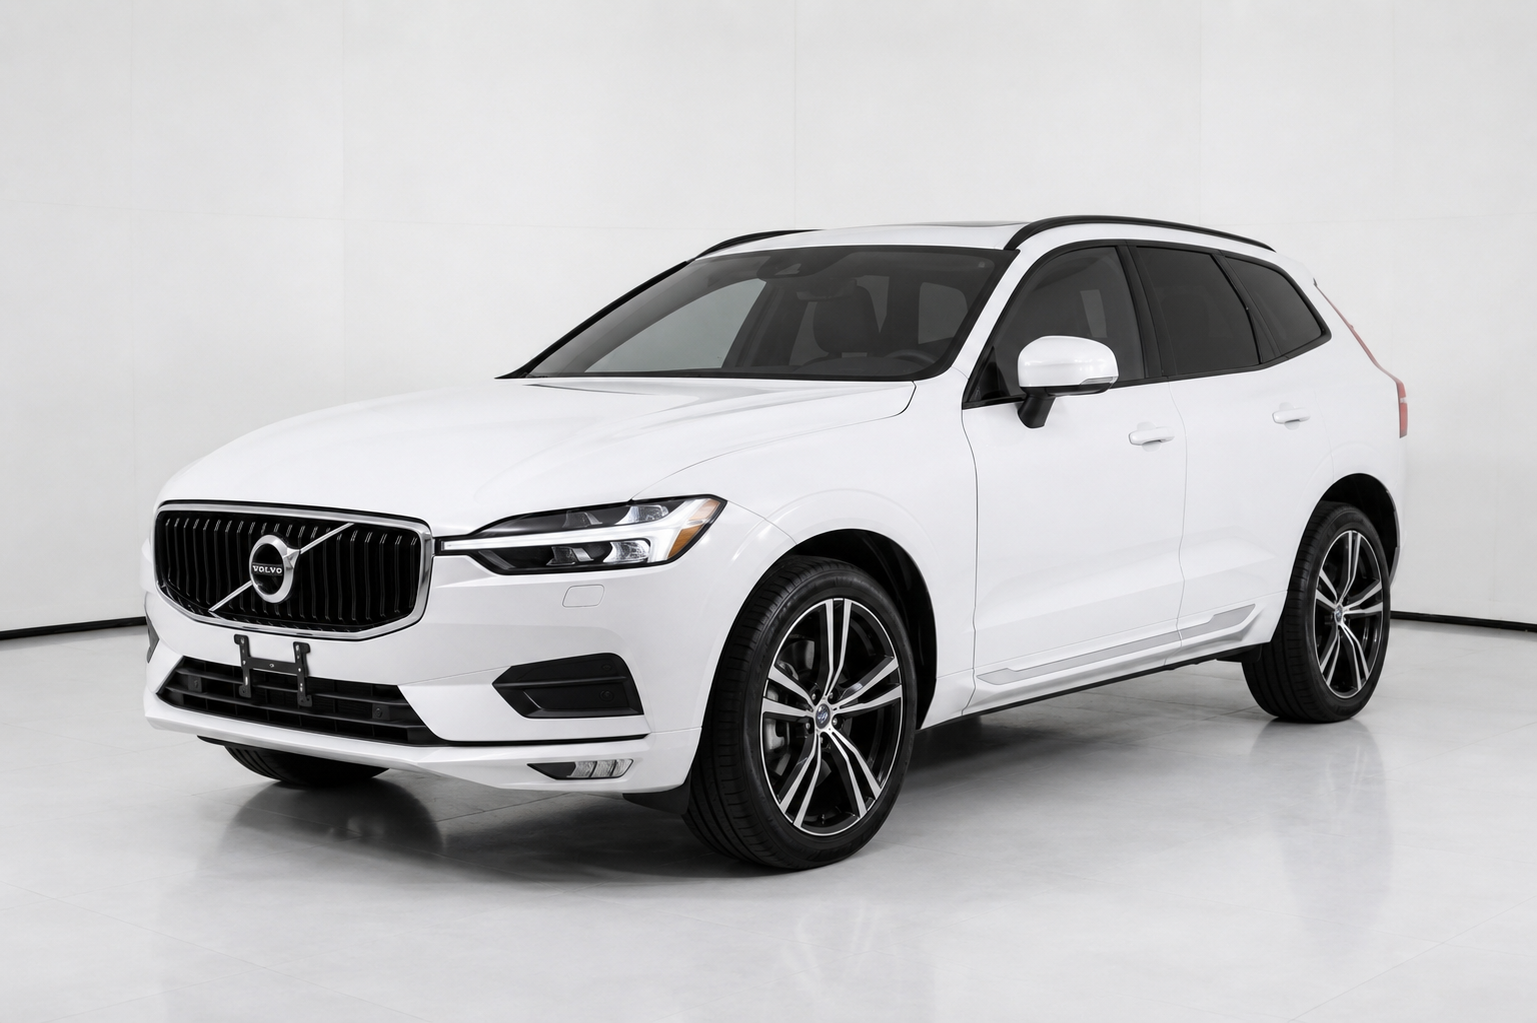
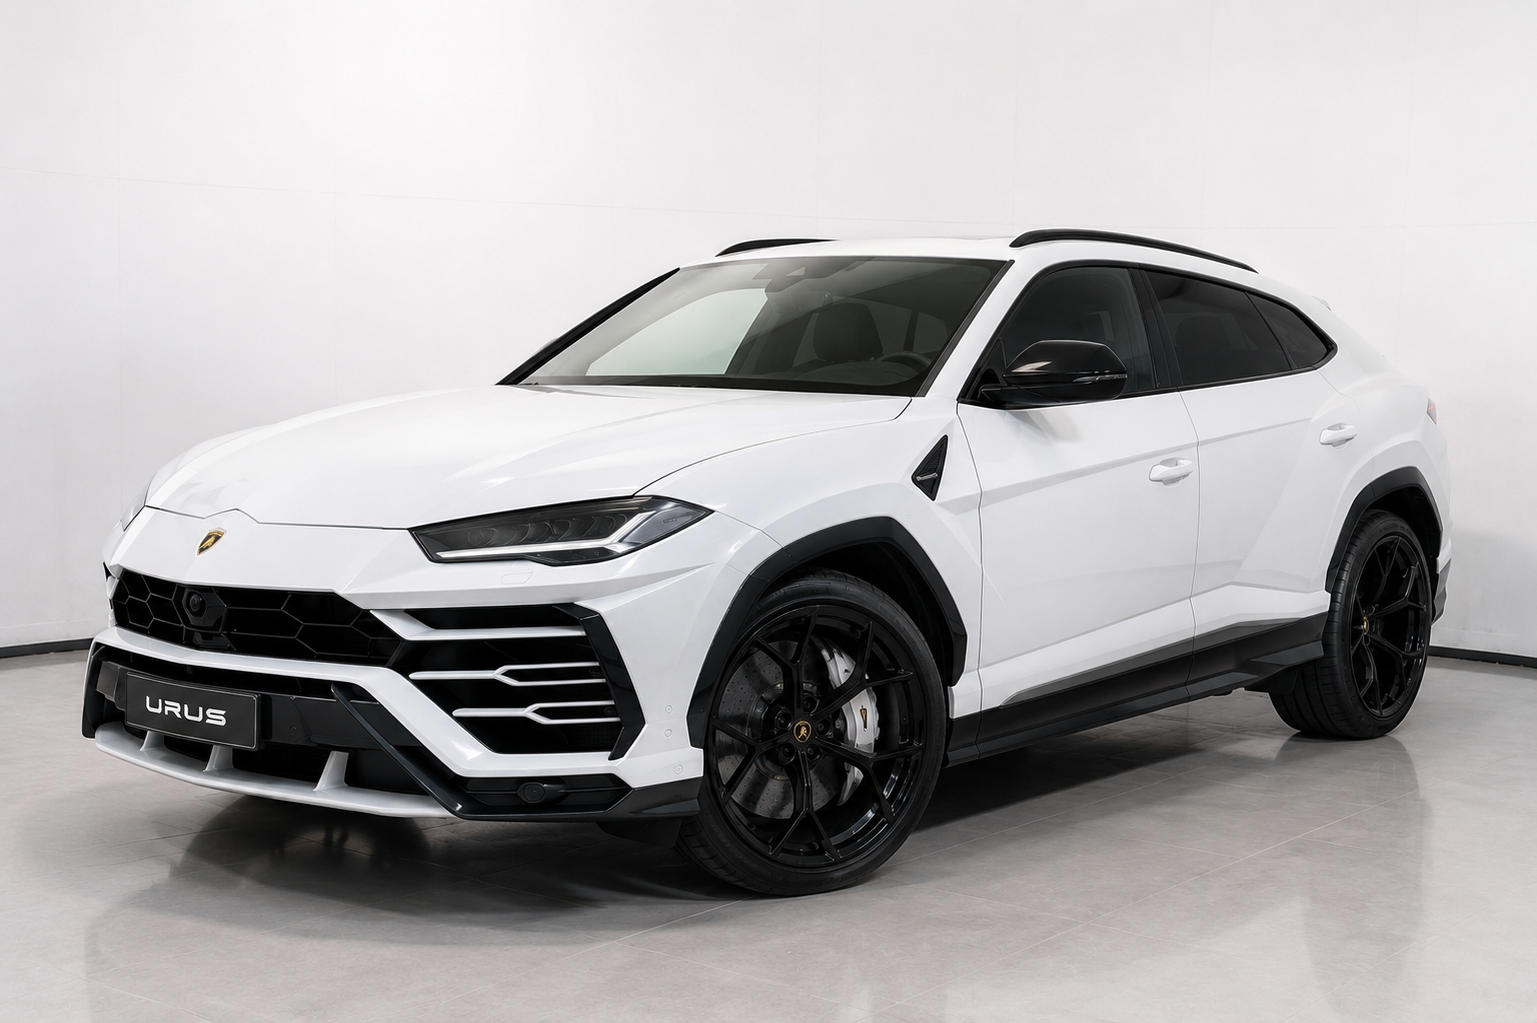
novos carros

diff --git a/src/data/cars.js b/src/data/cars.js
@@ -10,10 +10,10 @@ import classicos from "../assets/classicos.png";
 
 
 export const CarsData = [
-  { id: 1, title: "Ford Mustang Shelby GT500", category: "Sport", banner: esportivo, fipe: 769000 },
+  { id: 1, title: "Ford Mustang Shelby", category: "Sport", banner: esportivo, fipe: 769000 },
   { id: 2, title: "Mclaren 720's", category: "Super", banner: supr, fipe: 2650000 },
-  { id: 3, title: "BMW4 Competition M xDrive", category: "Conversivel", banner: conversiveis, fipe: 415000 },
-  { id: 4, title: "Volvo XC60", category: "Suv", banner: suv, fipe: 168000 },
+  { id: 3, title: "BMW M4 Competition ", category: "Conversivel", banner: conversiveis, fipe: 550000 },
+  { id: 4, title: "Lamborghini Urus", category: "Suv", banner: suv, fipe: 3960000 },
   { id: 5, title: "BMW M2 xDrive", category: "Coup", banner: coup, fipe: 535000 },
   { id: 6, title: "Toyota Corolla XEI", category: "Sedans", banner: sedan, fipe: 151000 },
   { id: 7, title: "Fiat Touro", category: "Picapes", banner: picape, fipe: 315000 },